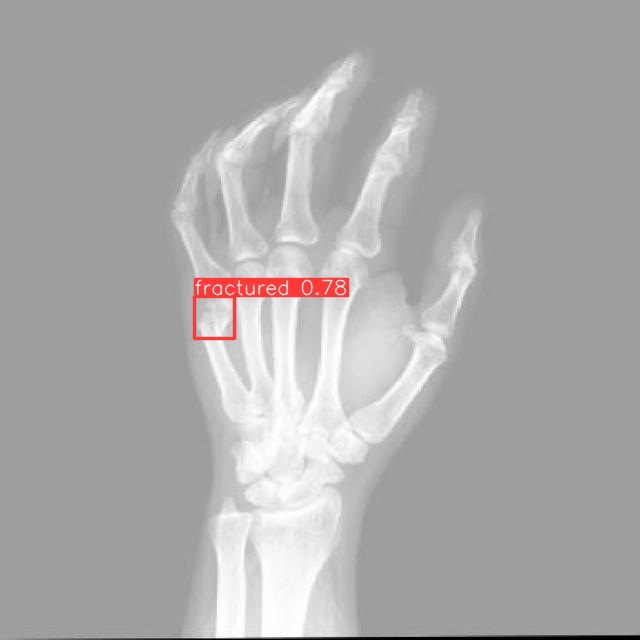
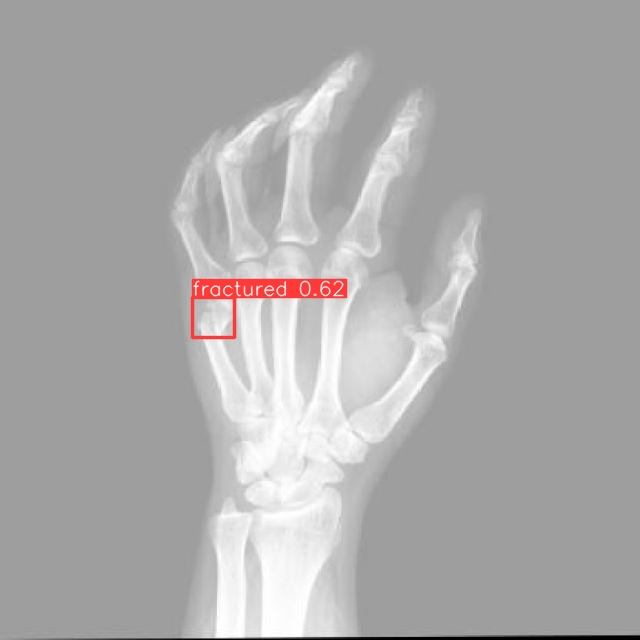
Updated yolov8x model

Changed region(s): [[0.2812, 0.4062, 0.5625, 0.5312]]

diff --git a/GUI/app.py b/GUI/app.py
@@ -84,7 +84,7 @@ with col2:
             try:
                 with st.expander("Detection Results"):
                     for box in boxes:
-                        st.write(box.data)
+                        st.write(box)
             except Exception as ex:
                 # st.write(ex)
                 st.write("No image is uploaded yet!")
